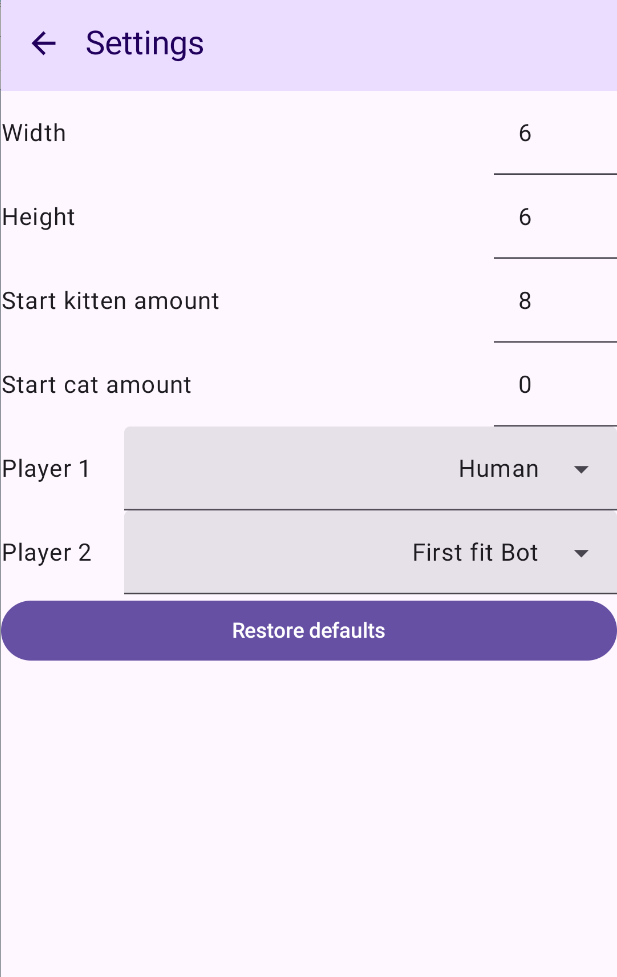
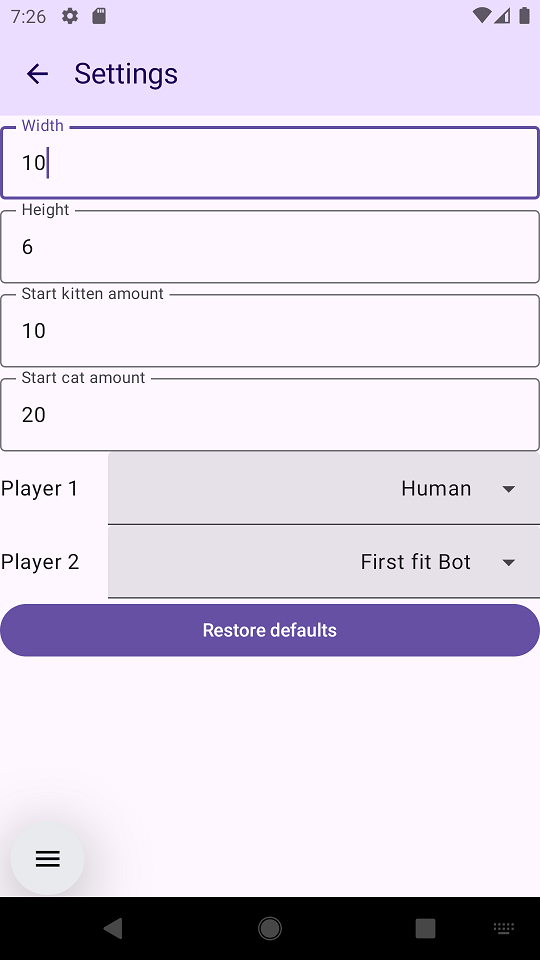
v1.3.1 - better UI for Settings screen - inconsistency error is shown when happens

diff --git a/app/src/main/java/com/alpha900i/a9kblanketbattle/ui/screens/SettingsScreen.kt b/app/src/main/java/com/alpha900i/a9kblanketbattle/ui/screens/SettingsScreen.kt
@@ -13,25 +13,25 @@ import androidx.compose.material3.ExposedDropdownMenuAnchorType
 import androidx.compose.material3.ExposedDropdownMenuBox
 import androidx.compose.material3.ExposedDropdownMenuDefaults
 import androidx.compose.material3.LocalTextStyle
+import androidx.compose.material3.OutlinedTextField
 import androidx.compose.material3.Text
 import androidx.compose.material3.TextField
-import androidx.compose.material3.TextFieldDefaults
 import androidx.compose.runtime.Composable
+import androidx.compose.runtime.LaunchedEffect
 import androidx.compose.runtime.getValue
 import androidx.compose.runtime.mutableStateOf
 import androidx.compose.runtime.remember
 import androidx.compose.runtime.setValue
 import androidx.compose.ui.Alignment
 import androidx.compose.ui.Modifier
-import androidx.compose.ui.graphics.Color
 import androidx.compose.ui.res.stringResource
 import androidx.compose.ui.text.input.KeyboardType
 import androidx.compose.ui.text.style.TextAlign
 import com.alpha900i.a9kblanketbattle.R
 import com.alpha900i.a9kblanketbattle.data.datastore.Settings
 import com.alpha900i.a9kblanketbattle.domain.PlayerType
-import com.alpha900i.a9kblanketbattle.ui.Constants
 import com.alpha900i.a9kblanketbattle.ui.SettingsActions
+import com.alpha900i.a9kblanketbattle.ui.SettingsResult
 
 @Composable
 fun SettingsScreen(
@@ -42,25 +42,25 @@ fun SettingsScreen(
         IntSetting(
             title = stringResource(R.string.width_setting_title),
             intValue = settings.width,
-            minValue = Constants.MIN_WIDTH,
+            settings = settings,
             setter = actions::setWidth
         )
         IntSetting(
             title = stringResource(R.string.height_setting_title),
             intValue = settings.height,
-            minValue = Constants.MIN_HEIGHT,
+            settings = settings,
             setter = actions::setHeight
         )
         IntSetting(
             title = stringResource(R.string.start_kitten_setting_title),
             intValue = settings.kittenStart,
-            minValue = Constants.MIN_KITTEN_START,
+            settings = settings,
             setter = actions::setKittenStart
         )
         IntSetting(
             title = stringResource(R.string.start_cat_setting_title),
             intValue = settings.catStart,
-            minValue = Constants.MIN_CAT_START,
+            settings = settings,
             setter = actions::setCatStart
         )
         PlayerTypeSetting(
@@ -88,44 +88,55 @@ fun SettingsScreen(
 fun IntSetting(
     title: String,
     intValue: Int,
-    minValue: Int,
-    setter: (Int) -> Boolean
+    settings: Settings,
+    setter: (Int) -> SettingsResult
 ) {
     var textValue by remember(intValue) {mutableStateOf("$intValue")}
+    var error by remember { mutableStateOf<SettingsResult.Failure?>(null) }
+
+    LaunchedEffect(settings) {
+        val parsed = textValue.toIntOrNull()
+        if (parsed == null || parsed == intValue) {
+            error = null
+            return@LaunchedEffect
+        }
+        error = when (val r = setter(parsed)) {
+            is SettingsResult.Success -> null
+            is SettingsResult.Failure -> r
+        }
+    }
     Row(
         verticalAlignment = Alignment.CenterVertically,
         modifier = Modifier.fillMaxWidth(1f)
     ) {
-        Text(
-            text = title,
-            modifier = Modifier
-                .weight(4f)
-        )
-        TextField(
+        OutlinedTextField(
             value = textValue,
-            onValueChange = {
-                textValue = it
-                try {
-                    val fieldValue = Integer.parseInt(textValue)
-                    if (fieldValue >= minValue) {
-                        if (!setter(fieldValue)) {
-                            textValue = "$intValue"
-                        }
-                    } else {
-                        textValue = "$minValue"
-                    }
-                } catch (_: Exception) {
-                    //nothing. If value is bad, we just ignore it
+            onValueChange = { newText ->
+                textValue = newText
+                val parsed = newText.toIntOrNull()
+                if (parsed != null) {
+                    val result: SettingsResult = setter(parsed)
+                    error = result as? SettingsResult.Failure
+                } else {
+                    error = null
+                    return@OutlinedTextField
                 }
             },
-            colors = TextFieldDefaults.colors(
-                focusedContainerColor = Color.Transparent,
-                unfocusedContainerColor = Color.Transparent,
-                disabledContainerColor = Color.Transparent,
-                errorContainerColor = Color.Transparent
-            ),
+            label = { Text(title) },
+            isError = error != null,
+            supportingText = error?.let { failure ->
+                {
+                    Text(
+                        text = stringResource(
+                            failure.messageRes,
+                            *failure.formatArgs.toTypedArray(),
+                        ),
+                    )
+                }
+            },
+            singleLine = true,
             keyboardOptions = KeyboardOptions(keyboardType = KeyboardType.Number),
-            modifier = Modifier.weight(1f)
+            modifier = Modifier.fillMaxWidth(),
         )
     }
 }

diff --git a/app/src/main/java/com/alpha900i/a9kblanketbattle/ui/AppViewModel.kt b/app/src/main/java/com/alpha900i/a9kblanketbattle/ui/AppViewModel.kt
@@ -1,5 +1,6 @@
 package com.alpha900i.a9kblanketbattle.ui
 
+import androidx.annotation.StringRes
 import androidx.lifecycle.ViewModel
 import androidx.lifecycle.ViewModelProvider
 import androidx.lifecycle.ViewModelProvider.AndroidViewModelFactory.Companion.APPLICATION_KEY
@@ -10,6 +11,7 @@ import com.alpha900i.a9kblanketbattle.MainApplication
 import com.alpha900i.a9kblanketbattle.R
 import com.alpha900i.a9kblanketbattle.data.GameState
 import com.alpha900i.a9kblanketbattle.data.TripletOnBoard
+import com.alpha900i.a9kblanketbattle.data.datastore.InvalidSettingsException
 import com.alpha900i.a9kblanketbattle.data.datastore.Settings
 import com.alpha900i.a9kblanketbattle.data.repository.DataStoreRepository
 import com.alpha900i.a9kblanketbattle.domain.Game
@@ -113,6 +115,20 @@ sealed class InfoSectionState {
     abstract val resourceId: Int
     abstract val formatArgs: Array<out Any>
 }
+
+
+/**
+ * Result of attempt to save settings
+ * [Success] is obvious, [Failure] is result of init's consistency check
+ */
+sealed interface SettingsResult {
+    data object Success : SettingsResult
+    data class Failure(
+        @StringRes val messageRes: Int,
+        val formatArgs: List<Any> = emptyList(),
+    ) : SettingsResult
+}
+
 
 class AppViewModel(
     val dataStoreRepository: DataStoreRepository
@@ -244,21 +260,38 @@ class AppViewModel(
             started = SharingStarted.Eagerly,
             initialValue = Settings.DEFAULT,
         )
-    fun setSettings(transform: (Settings) -> Settings): Boolean {
+    fun setSettings(transform: (Settings) -> Settings): SettingsResult {
         val candidate = runCatching { transform(settings.value) }
-            .getOrElse {
-                //emitHint("Setting rejected")
-                return false
+            .getOrElse { e ->
+                return when (e) {
+                    is InvalidSettingsException -> formSettingsFailure(e)
+                    else -> SettingsResult.Failure(R.string.settings_generic_error)
+                }
             }
         viewModelScope.launch { dataStoreRepository.setSettings(candidate) }
-        return true
+        return SettingsResult.Success
     }
-    fun setWidth(width: Int): Boolean = setSettings { it.copy(width = width) }
-    fun setHeight(height: Int): Boolean = setSettings { it.copy(height = height) }
-    fun setKittenStart(kittenStart: Int): Boolean = setSettings { it.copy(kittenStart = kittenStart) }
-    fun setCatStart(catStart: Int): Boolean = setSettings { it.copy(catStart = catStart) }
-    fun setFirstPlayerType(playerType: PlayerType): Boolean = setSettings { it.copy(firstPlayerType = playerType) }
-    fun setSecondPlayerType(playerType: PlayerType): Boolean = setSettings { it.copy(secondPlayerType = playerType) }
+
+    private fun formSettingsFailure(e: InvalidSettingsException): SettingsResult {
+        return SettingsResult.Failure(
+            when (e) {
+                is InvalidSettingsException.WidthOutOfRange -> R.string.settings_width_out_of_range_error
+                is InvalidSettingsException.HeightOutOfRange -> R.string.settings_height_out_of_range_error
+                is InvalidSettingsException.KittenOutOfRange -> R.string.settings_kitten_out_of_range_error
+                is InvalidSettingsException.CatOutOfRange -> R.string.settings_cat_out_of_range_error
+                is InvalidSettingsException.NoStartingPieces -> R.string.settings_no_starting_pieces_error
+                is InvalidSettingsException.NotEnoughCells -> R.string.settings_not_enough_cells_error
+            },
+            e.formatArgs
+        )
+    }
+
+    fun setWidth(width: Int): SettingsResult = setSettings { it.copy(width = width) }
+    fun setHeight(height: Int): SettingsResult = setSettings { it.copy(height = height) }
+    fun setKittenStart(kittenStart: Int): SettingsResult = setSettings { it.copy(kittenStart = kittenStart) }
+    fun setCatStart(catStart: Int): SettingsResult = setSettings { it.copy(catStart = catStart) }
+    fun setFirstPlayerType(playerType: PlayerType): SettingsResult = setSettings { it.copy(firstPlayerType = playerType) }
+    fun setSecondPlayerType(playerType: PlayerType): SettingsResult = setSettings { it.copy(secondPlayerType = playerType) }
     fun restoreDefaults() {
         setSettings { Settings.DEFAULT }
     }

diff --git a/app/src/main/java/com/alpha900i/a9kblanketbattle/data/datastore/Settings.kt b/app/src/main/java/com/alpha900i/a9kblanketbattle/data/datastore/Settings.kt
@@ -3,6 +3,20 @@ package com.alpha900i.a9kblanketbattle.data.datastore
 import com.alpha900i.a9kblanketbattle.domain.PlayerType
 import com.alpha900i.a9kblanketbattle.ui.Constants
 
+sealed class InvalidSettingsException(val formatArgs: List<Any>) : IllegalArgumentException() {
+    data class WidthOutOfRange(val minWidth: Int, val maxWidth: Int, val width: Int):
+        InvalidSettingsException(listOf(minWidth, maxWidth, width))
+    data class HeightOutOfRange(val minHeight: Int, val maxHeight: Int, val height: Int):
+        InvalidSettingsException(listOf(minHeight, maxHeight, height))
+    data class KittenOutOfRange(val minKittens: Int, val kitten: Int):
+        InvalidSettingsException(listOf(minKittens, kitten))
+    data class CatOutOfRange(val minCat: Int, val cat: Int):
+        InvalidSettingsException(listOf(minCat, cat))
+    class NoStartingPieces: InvalidSettingsException(listOf())
+    data class NotEnoughCells(val piecePerPlayer: Int, val width: Int, val height: Int):
+        InvalidSettingsException(listOf(piecePerPlayer, 2*piecePerPlayer, width, height, width*height))
+}
+
 data class Settings(
     val width: Int,
     val height: Int,
@@ -13,27 +27,51 @@ data class Settings(
 ) {
     init {
         //range checks
-        require(width in Constants.MIN_WIDTH..Constants.MAX_WIDTH)   {
-            "Width must be between ${Constants.MIN_WIDTH} and ${Constants.MAX_WIDTH}, got $width"
-        }
-        require(height in Constants.MIN_HEIGHT..Constants.MAX_HEIGHT)  {
-            "Height must be between ${Constants.MIN_HEIGHT} and ${Constants.MAX_HEIGHT}, got $height"
-        }
-        require(kittenStart >= Constants.MIN_KITTEN_START) {
-            "Starting kittens can't be less than ${Constants.MIN_KITTEN_START}, got $kittenStart"
-        }
-        require(catStart >= Constants.MIN_CAT_START)    {
-            "Starting cats can't be less than ${Constants.MIN_CAT_START}, got $catStart"
-        }
+        checkRule(
+            width in Constants.MIN_WIDTH..Constants.MAX_WIDTH,
+            InvalidSettingsException.WidthOutOfRange(
+                Constants.MIN_WIDTH,
+                Constants.MAX_WIDTH,
+                width
+            )
+        )
+        checkRule(
+            height in Constants.MIN_HEIGHT..Constants.MAX_HEIGHT,
+            InvalidSettingsException.HeightOutOfRange(
+                Constants.MIN_HEIGHT,
+                Constants.MAX_HEIGHT,
+                height
+            )
+        )
+        checkRule(
+            kittenStart >= Constants.MIN_KITTEN_START,
+            InvalidSettingsException.KittenOutOfRange(
+                Constants.MIN_KITTEN_START,
+                kittenStart
+            )
+        )
+        checkRule(
+            catStart >= Constants.MIN_CAT_START,
+            InvalidSettingsException.CatOutOfRange(
+                Constants.MIN_CAT_START,
+                catStart
+            )
+        )
 
         //cross-field invariants
-        require(kittenStart + catStart > 0) {
-            "Each player must start with at least one piece"
-        }
-        require(2 * (kittenStart + catStart) <= width * height) {
-            "Not enough cells: 2 players × ${kittenStart + catStart} pieces " +
-                    "= ${2 * (kittenStart + catStart)} pieces, " +
-                    "but board is ${width}×${height} = ${width * height} cells"
+        checkRule(
+            kittenStart + catStart > 0,
+            InvalidSettingsException.NoStartingPieces()
+        )
+        checkRule(
+            2 * (kittenStart + catStart) <= width * height,
+            InvalidSettingsException.NotEnoughCells(kittenStart + catStart, width, height)
+        )
+    }
+
+    private fun checkRule(rule: Boolean, e: InvalidSettingsException) {
+        if (!rule) {
+            throw e
         }
     }
 

diff --git a/app/src/main/java/com/alpha900i/a9kblanketbattle/ui/Contracts.kt b/app/src/main/java/com/alpha900i/a9kblanketbattle/ui/Contracts.kt
@@ -31,12 +31,12 @@ interface GameScreenActions {
  * [restoreDefaults] sets all settings to their default values
  */
 interface SettingsActions {
-    fun setWidth(width: Int): Boolean
-    fun setHeight(height: Int): Boolean
-    fun setKittenStart(kittenStart: Int): Boolean
-    fun setCatStart(catStart: Int): Boolean
-    fun setFirstPlayerType(playerType: PlayerType): Boolean
-    fun setSecondPlayerType(playerType: PlayerType): Boolean
+    fun setWidth(width: Int): SettingsResult
+    fun setHeight(height: Int): SettingsResult
+    fun setKittenStart(kittenStart: Int): SettingsResult
+    fun setCatStart(catStart: Int): SettingsResult
+    fun setFirstPlayerType(playerType: PlayerType): SettingsResult
+    fun setSecondPlayerType(playerType: PlayerType): SettingsResult
 
     fun restoreDefaults()
 }
